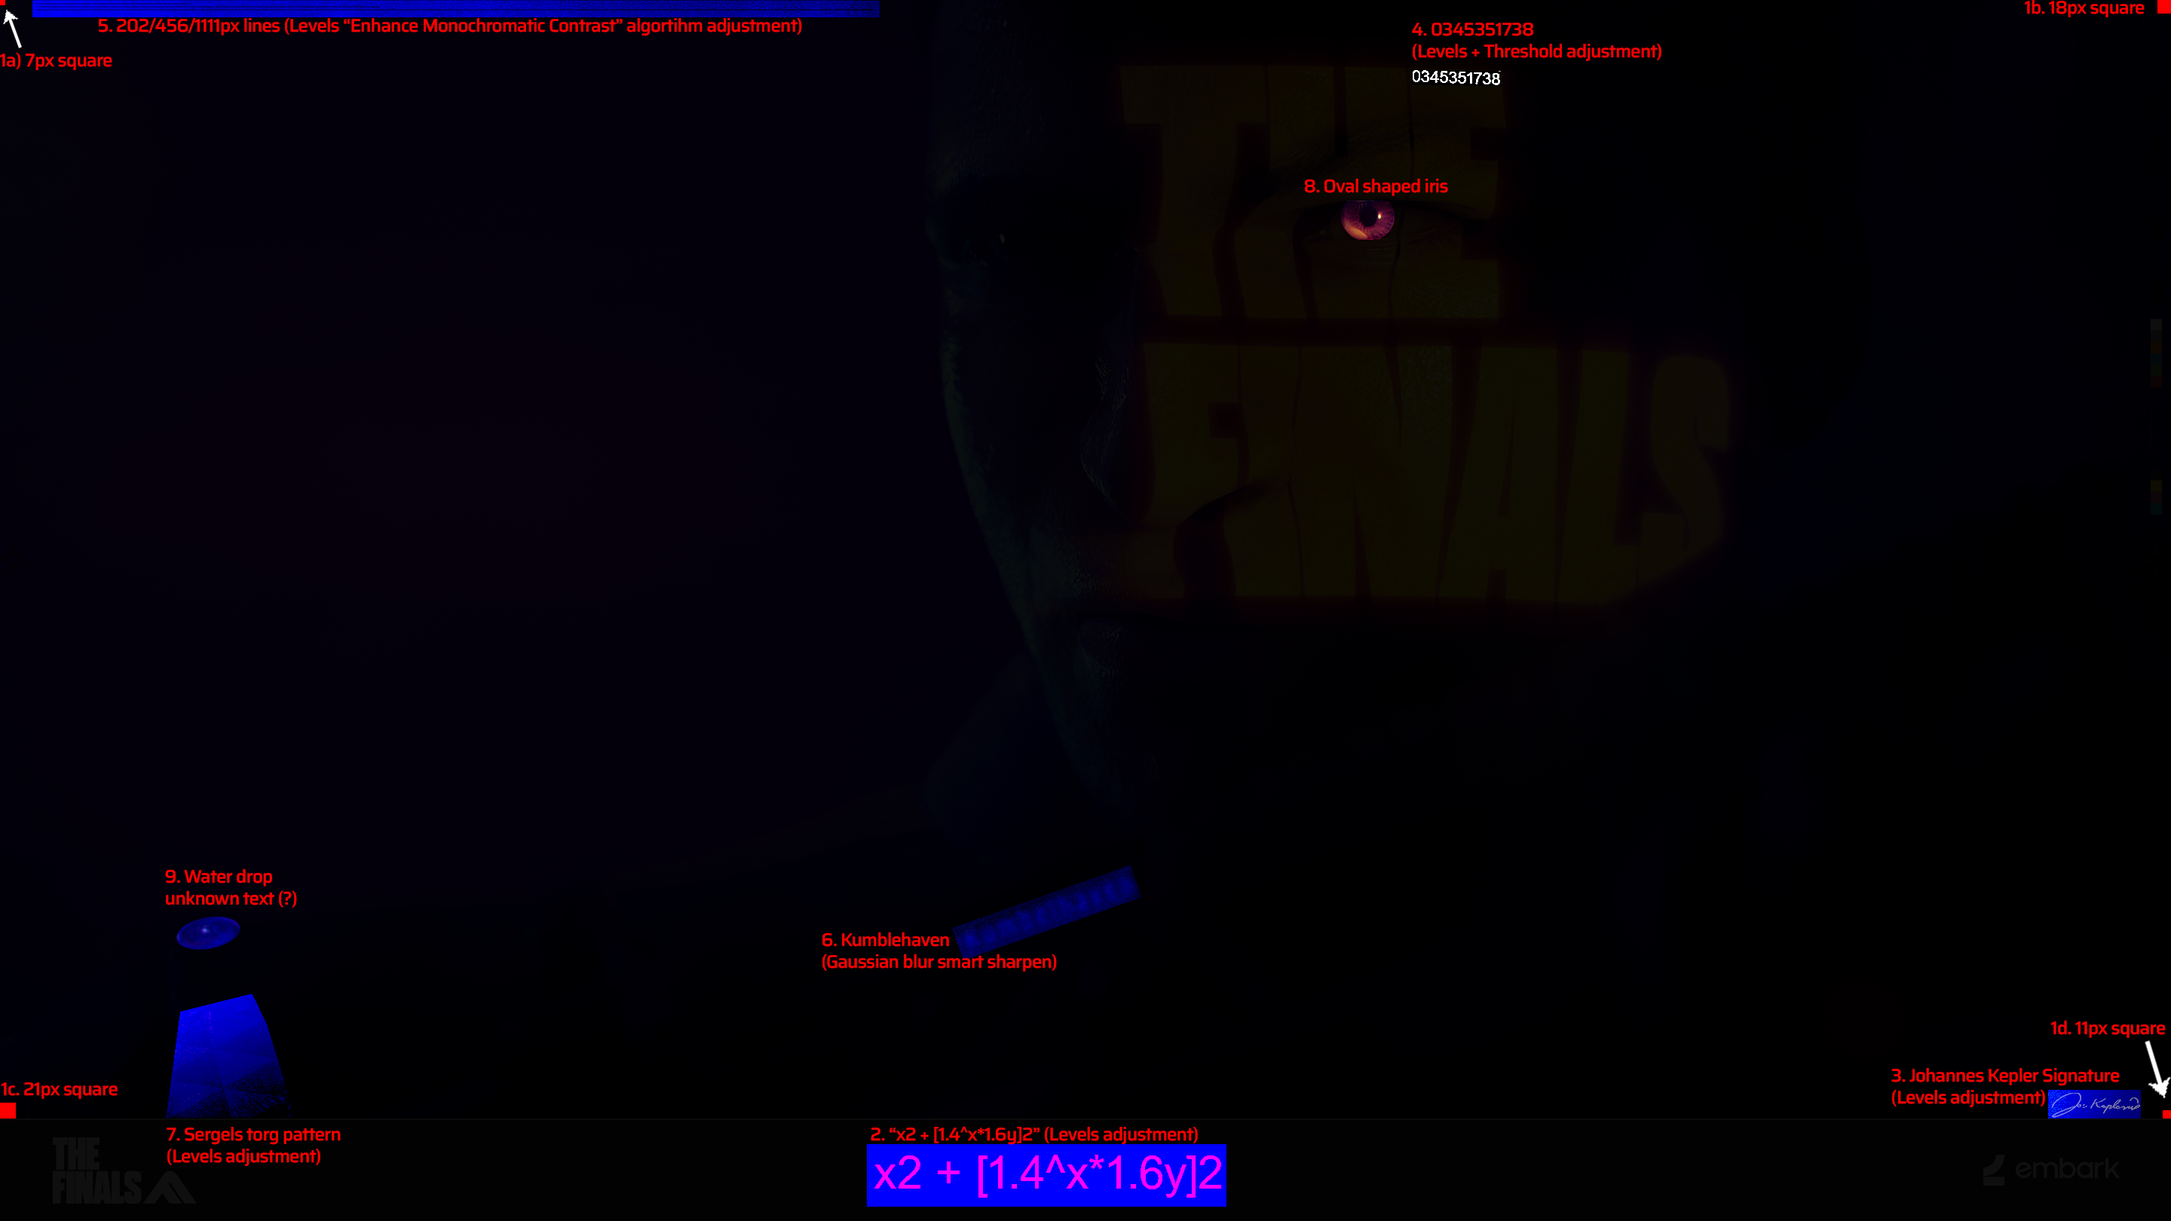
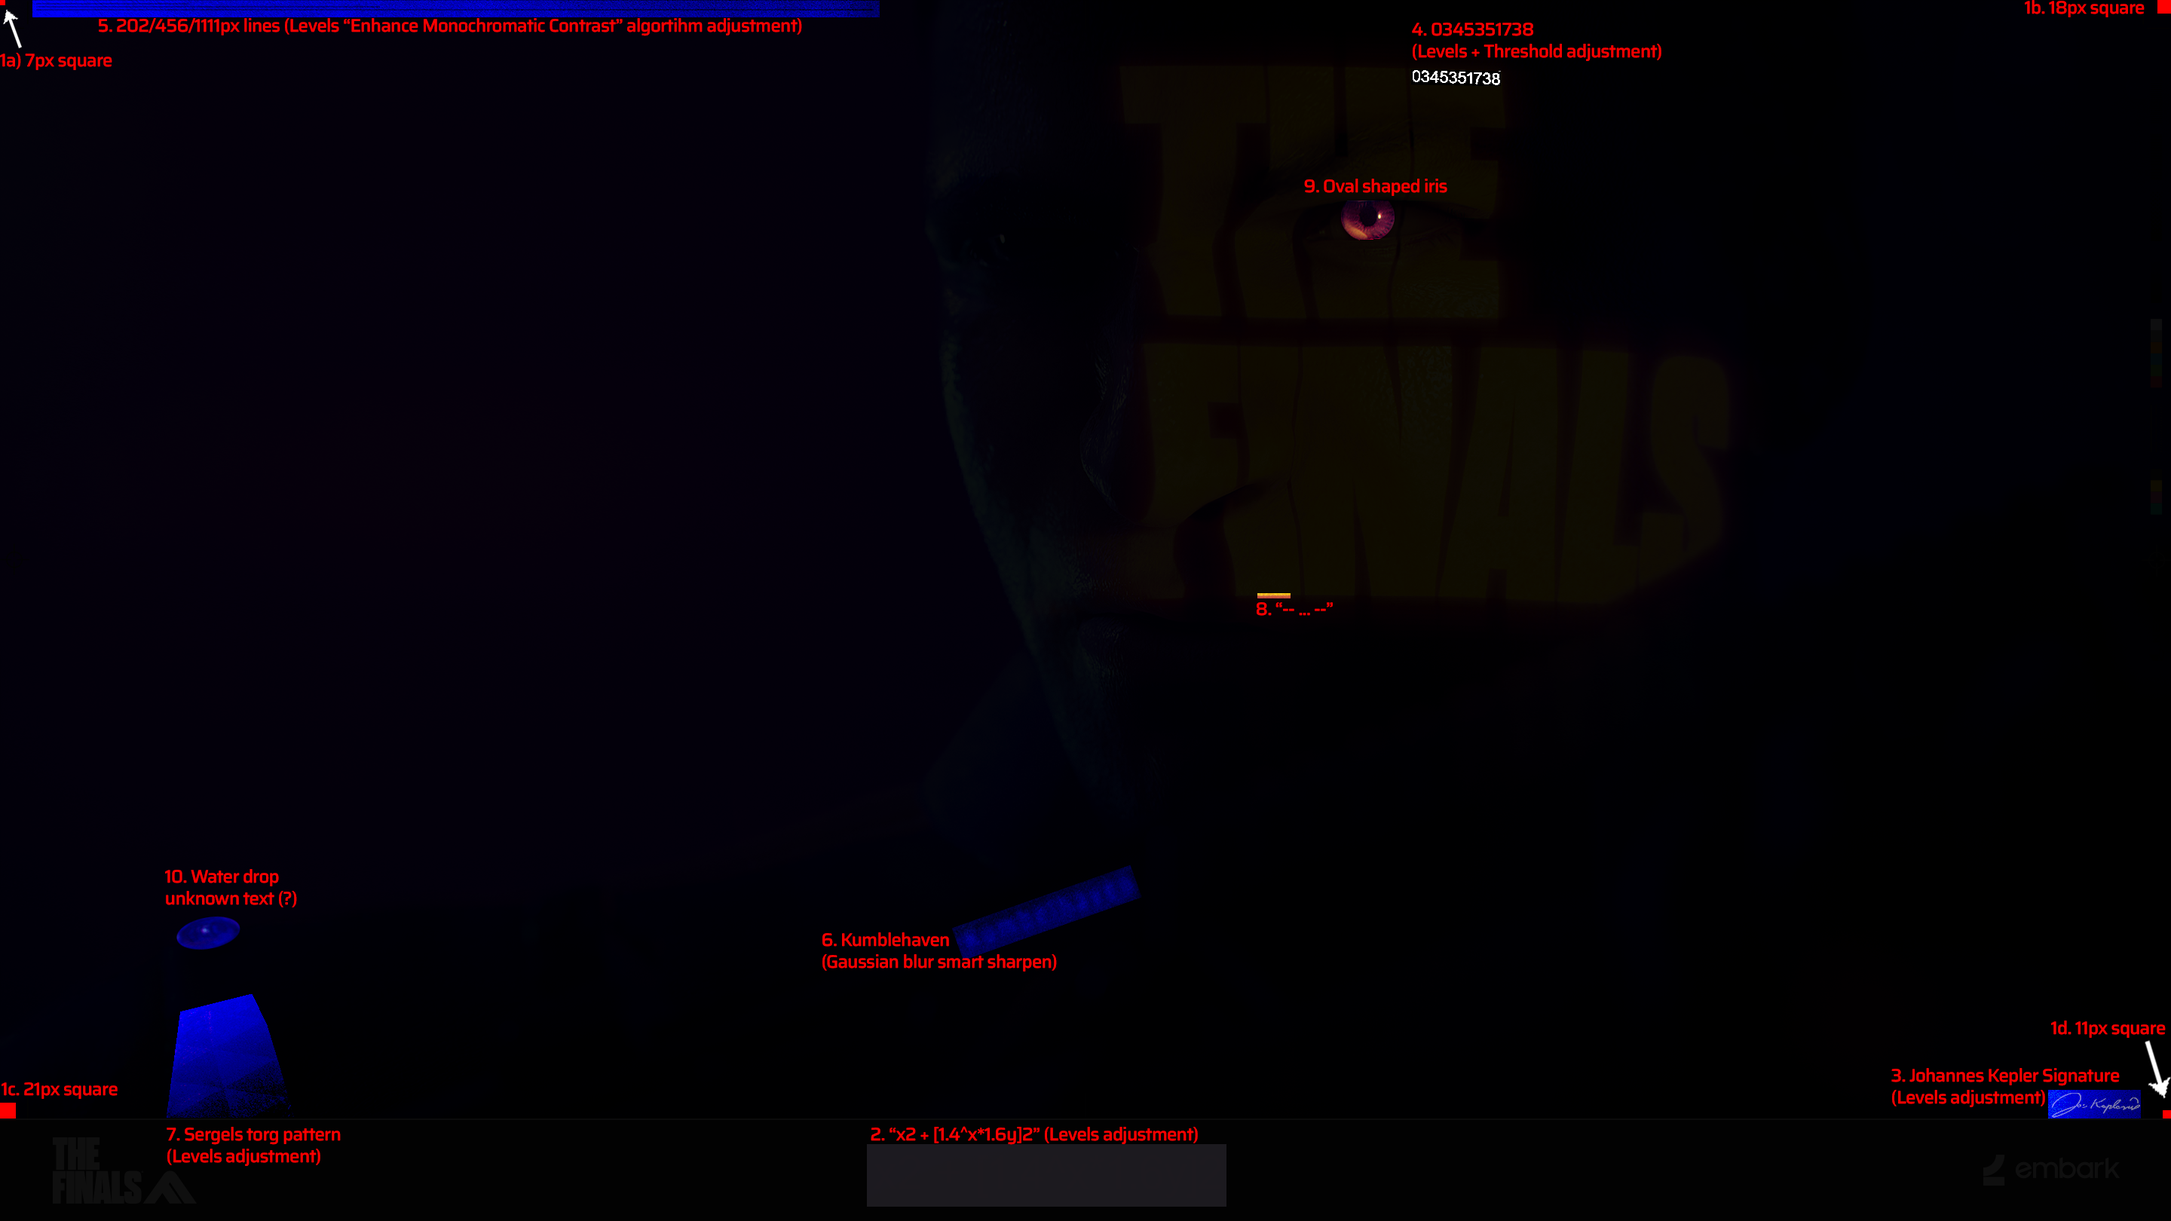
Missing content and formmating updates

Changed region(s): [[0.375, 0.9259, 0.5625, 0.9877], [0.0625, 0.7099, 0.125, 0.7407]]

diff --git a/content/T1B/THE_FINALS_OSPUZE.md b/content/T1B/THE_FINALS_OSPUZE.md
@@ -1,10 +1,12 @@
 Upon solving T1A the [password page](https://www.reachthefinals.com/t1-a) was replaced to instead have an image of THE_FINALS_Promo_OSPUZE_Weapons_1920x1080.png. 
 A higher resolution copy of the image was [posted](https://discord.com/channels/1008696016318513243/1031539174743998526/1034504554085097583) to the brand new \#official-art channel when it was 
-made two weeks later: ![[THE_FINALS_OSPUZE.png | 1300]]
+made two weeks later:
+![[THE_FINALS_OSPUZE.png | 2000]]
 # Pigpen cipher
 
 With some light photo editing a hidden pigpen cipher was found in the image ([credit](https://discord.com/channels/1008696016318513243/1011929497139953744/1029453835057496084)). 
-The cipher can be found using many techniques; here I've shown how it can be found by adjusting curves in the photo (it's faint, but it's there): ![[OSPUZE_pigpen.png | 1300]]
+The cipher can be found using many techniques; here I've shown how it can be found by adjusting curves in the photo (it's faint, but it's there):
+![[OSPUZE_pigpen.png | 2000]]
 The characters for the cipher [were quickly identified](https://discord.com/channels/1008696016318513243/1011929497139953744/1029457222369030185). Here I've isolated only the cipher:
 ![[OSPUZE_pigpen_only.png]]
 
@@ -16,7 +18,8 @@ For cipher characters that have double lines use the upper right key from the wi
 [This was quickly found](https://discord.com/channels/1008696016318513243/1011929497139953744/1029674085816479777) to be a reference to Frank Kramer, the credited name of director [[Gianfranco Parolini]].
 
 ---
-# The below clues are all apparent in the unedited image. Use this image as reference for locating them: ![[OSPUZE_apparent_clues.png | 1300]]
+# The below clues are all apparent in the unedited image. Use this image as reference for locating them:
+![[OSPUZE_apparent_clues.png | 2000]]
 # 1. mmisar X
 Around the same time [[Gianfranco Parolini]] was mentioned the text "mmisar X" was found on the [M60](https://www.thefinals.wiki/wiki/M60). The beginning of the text was occluded by the bullet feed, however the recently solved pigpen clue pointing Frank Kramer helped [immediately discover](https://discord.com/channels/1008696016318513243/1011929497139953744/1029673983156690984) that this textm was referring to a film he directed named [[Kommissar X]].
 
@@ -32,6 +35,7 @@ On the Ospuze sheriff badge strapped to the forestock of the M60 there is a lett
 
 # 4. 832 #num832
 The presence of 8 bullets strapped to the [M11](https://www.thefinals.wiki/wiki/M11) alongside the number "32" stamped into the gun pointed toward "Ab urbe condita 832" - a representation of the year AD 79 in a different calendar system. 
-Looking at the [AD 79 Wikipedia page](https://en.wikipedia.org/wiki/AD_79) the roman numeral password is present between AD 79 and Ab urb condita 832.  ![832](https://media.discordapp.net/attachments/1011929497139953744/1038421217050382336/image.png)
+Looking at the [AD 79 Wikipedia page](https://en.wikipedia.org/wiki/AD_79) the roman numeral password is present between AD 79 and Ab urb condita 832.  
+![832](https://media.discordapp.net/attachments/1011929497139953744/1038421217050382336/image.png)
 
 

diff --git a/content/T1B/Extra_Ospuze_Candy.md b/content/T1B/Extra_Ospuze_Candy.md
@@ -2,8 +2,10 @@
 > Hi there.! Hope you all will have a great weekend.! Here is some extra candy from one of our sponsors to enlighten your day... ._.
 
 An identical copy of the image was [posted](https://discord.com/channels/1008696016318513243/1031539174743998526/1035157401764110437) to the brand new \#official-art channel when it was 
-made four days later: ![[THE_FINALS_Extra_OSPUZE_Candy.jpg | 1300]]
-# The below clues are all apparent in the unedited image. Use this image as reference for locating them: ![[Extra_OSPUZE_Candy_apparent_clues.png | 1300]]
+made four days later:
+![[THE_FINALS_Extra_OSPUZE_Candy.jpg | 2000]]
+# The below clues are all apparent in the unedited image. Use this image as reference for locating them:
+![[Extra_OSPUZE_Candy_apparent_clues.png | 2000]]
 ## 1) 43 34 33 44 11-XXV
 Snippets of numeric text were found throughout the image ([1e](https://discord.com/channels/1008696016318513243/1011929497139953744/1033144605178335292), [1c](https://discord.com/channels/1008696016318513243/1011929497139953744/1033148848010448936), [1a](https://discord.com/channels/1008696016318513243/1011929497139953744/1033149124096299039), [1d](https://discord.com/channels/1008696016318513243/1011929497139953744/1033149188365635616), [1b](https://discord.com/channels/1008696016318513243/1011929497139953744/1033150066317344819)). The string is completed by arranging the snippets which contain purely [Arabic numerals](https://en.wikipedia.org/wiki/Arabic_numerals) from their placement in the image left to right and placing the snippet with [[Roman Numerals]] at the end. 
 
@@ -11,7 +13,7 @@ Using [tap code (aka knock code)](https://en.wikipedia.org/wiki/Tap_code) to dec
 
 ## 2) Ludwig signature snippet
 This is [[Ludwig van Beethoven|Beethoven]]'s first name from his signature:
-![LVB signature](https://upload.wikimedia.org/wikipedia/commons/thumb/6/62/Beethoven_Signature.svg/2560px-Beethoven_Signature.svg.png)
+![LVB signature | 1000](https://upload.wikimedia.org/wikipedia/commons/thumb/6/62/Beethoven_Signature.svg/2560px-Beethoven_Signature.svg.png)
 The identity of the signature was not discovered until a second snipet of the signature was found when [[Ospuze_Candiii]] was released.
 ## 3) Two tick marks
 #Unsolved

diff --git a/content/T1C/Promo_ISEULT_Candy_.md b/content/T1C/Promo_ISEULT_Candy_.md
@@ -1,5 +1,6 @@
-Upon completing T1B hunters were rewarded with the newest image. A much higher resolution version was then uploaded to the \#official-art channel [here](https://discord.com/channels/1008696016318513243/1031539174743998526/1036205427588857946):![[THE_FINALS_Promo_ISEULT_Candy_.png | 1300]]
- ![[THE_FINALS_Promo_ISEULT_Candy_clues.png | 1300]]
+Upon completing T1B hunters were rewarded with the newest image. A much higher resolution version was then uploaded to the \#official-art channel [here](https://discord.com/channels/1008696016318513243/1031539174743998526/1036205427588857946):
+![[THE_FINALS_Promo_ISEULT_Candy_.png | 2000]]
+![[THE_FINALS_Promo_ISEULT_Candy_clues.png | 2000]]
 
 # 1) AA - Anders Ångström
 There are two lone "A" characters in the image. The first is located on the rear sight tower of the [AKM](https://www.thefinals.wiki/wiki/AKM) (above the foregrip), while the second is on the buttstock of the [M60](https://www.thefinals.wiki/wiki/M60). 
@@ -18,7 +19,7 @@ The substitution of Roman numerals for the 3 in the Russian name allude to the r
 Pink Floyd's dark side of the moon
 
 The ***pink*** equilateral triangle was interpreted as a nod to ***Pink*** Floyd's album [Dark Side of the Moon](https://en.wikipedia.org/wiki/The_Dark_Side_of_the_Moon), as the album cover features an equilateral triangle. The name of the album serves as another nod to Luna 3, while the album cover is a nod to spectroscopy because of the light refraction and dispersion. 
-![album cover](https://upload.wikimedia.org/wikipedia/commons/c/c7/The_Dark_Side_of_the_Moon_Cover.svg)
+![album cove | 500](https://upload.wikimedia.org/wikipedia/commons/c/c7/The_Dark_Side_of_the_Moon_Cover.svg)
 
 # 4) 118
 There are 118 known elements.

diff --git a/content/T1A/Concept_006_TakeCover.md b/content/T1A/Concept_006_TakeCover.md
@@ -1,8 +1,9 @@
-![[THE_FINALS_Concept_006_TakeCover.jpg]]
+![[THE_FINALS_Concept_006_TakeCover.jpg | 2000]]
 
 Originally posted [here](https://discord.com/channels/1008696016318513243/1011929497139953744/1027944952698781728), then later in higher resolution in the official art channel [here](https://discord.com/channels/1008696016318513243/1031539174743998526/1034397078736085003)
 
-Here are the known clues which are immediately apparent in the image: ![[TakeCover_apparent_clues.png | 1300]]
+Here are the known clues which are immediately apparent in the image:
+![[TakeCover_apparent_clues.png | 2000]]
 # 1. αίθουσα
 There are three groupings of characters hidden near the bottom of the image (above the footer). These were found in three separate posts ([1c](https://discord.com/channels/1008696016318513243/1011929497139953744/1027948287904460851), [1a](https://discord.com/channels/1008696016318513243/1011929497139953744/1028027996969369670), [1b](https://discord.com/channels/1008696016318513243/1011929497139953744/1028029333253664919))
 
@@ -18,4 +19,5 @@ In [this message](https://discord.com/channels/1008696016318513243/1011929497139
 
 # 3. Poseidon Trident Symbol
 Poseidon is the father of [[Aethusa]]. 
-I believe this is close to if not the exact image used: ![t](https://emoji.discadia.com/emojis/4c32751d-2e08-412e-ae5a-805743d3898b.png)
+I believe this is close to if not the exact image used:
+![t | 500](https://emoji.discadia.com/emojis/4c32751d-2e08-412e-ae5a-805743d3898b.png)

diff --git a/content/T1D/Wallpaper_Brown_Eyed_Girl.md b/content/T1D/Wallpaper_Brown_Eyed_Girl.md
@@ -2,8 +2,8 @@
 > Wow, I just found this "404 errors may be momentary glitches that you can resolve by refreshing your web browser on a page."... that could be useful, I will keep that in mind... .\_.
 
 A minute later, after users had discovered the updated content of the T1C URL, a higher resolution version of the image was [posted](https://discord.com/channels/1008696016318513243/1031539174743998526/1043565435980873778) to the \#official-art channel:
-![[THE_FINALS_Wallpaper_Brown_Eyed_Girl_2880x1620.png| 1300]]
- ![[THE_FINALS_Wallpaper_Brown_Eyed_Girl_2880x1620_clues.png | 1300]]
+![[THE_FINALS_Wallpaper_Brown_Eyed_Girl_2880x1620.png| 2000]]
+![[THE_FINALS_Wallpaper_Brown_Eyed_Girl_2880x1620_clues.png | 2000]]
 
 # 0) Top Row Transparent Pixels
 In the top row there are transparent pixels at the y positions 0, 45, 70, 115, 127, 161.
@@ -31,4 +31,5 @@ A stack of 13 objects, interpreted to be Euclid's ***The Thirteen Books** of the
 
 # 7)110D631
 #Unsolved 
-It is contested where the 5th character is A 6 or an 8. Here I've presented a comparison in an attempt to provide an objective analysis ![[6vs8_analysis.gif | 800]]
+It is contested where the 5th character is A 6 or an 8. Here I've presented a comparison in an attempt to provide an objective analysis:
+![[6vs8_analysis.gif | 800]]

diff --git a/content/T1C/Promo_ISEULT_Candy_2.md b/content/T1C/Promo_ISEULT_Candy_2.md
@@ -1,14 +1,16 @@
 [Rob posted](https://discord.com/channels/1008696016318513243/1011929497139953744/1037777259681026069) the new image with the following caption:
 > Hi.! Some new candy from our sponsors, hope you like it.!
 
-An identical copy of the image was immediately [posted](https://discord.com/channels/1008696016318513243/1031539174743998526/1037777303742205974) to the \#official-art channel:![[THE_FINALS_Promo_ISEULT_Candy_2.png | 1300]]
+An identical copy of the image was immediately [posted](https://discord.com/channels/1008696016318513243/1031539174743998526/1037777303742205974) to the \#official-art channel:
+![[THE_FINALS_Promo_ISEULT_Candy_2.png | 2000]]
 
- ![[THE_FINALS_Promo_ISEULT_Candy_2_clues.png | 1300]]
+![[THE_FINALS_Promo_ISEULT_Candy_2_clues.png | 2000]]
 # 1) A
 Angstrom
 
 # 2) 2.75 3.26
 Violet light has photon energy of 2.75–3.26 [eV](https://simple.wikipedia.org/wiki/Electronvolt "Electronvolt")
+
 # 3) 29.9N 41.6W
 These are the coordinates of the [Angström crater](https://en.wikipedia.org/wiki/Angstr%C3%B6m_(crater)) on the moon.
 The characters "N" and "W" are a violet color.

diff --git a/content/T1D/404.gif.md b/content/T1D/404.gif.md
@@ -1,5 +1,7 @@
-Upon completing T1C hunters were rewarded with the newest image. This GIF temporarily appeared in place of the password entry until it was supplanted by [[Wallpaper_Brown_Eyed_Girl]]:![[404.gif | 1300]]
+Upon completing T1C hunters were rewarded with the newest image. This GIF temporarily appeared in place of the password entry until it was supplanted by [[Wallpaper_Brown_Eyed_Girl]]:
+![[404.gif | 2000]]
 There is a single known clue hidden in the GIF. Each of the three brief frames at the end has a hidden digit. The digits are 3, 2, and 5. Greek mathematician Euclid was born in the year 325 BC; As he is the father of geometry, this clue pointed us toward a geometry related solution.  
 
 Using a threshold adjustment layer with the threshold set to 255 is sufficient to clearly reveal the hidden digits. 
-The below image shows a composite of all three relevant frames with a mask to highlight the hidden numbers: ![[404_clues.png | 1300]]
+The below image shows a composite of all three relevant frames with a threshold applied and mask to highlight the hidden numbers: 
+![[404_clues.png | 2000]]

diff --git a/content/T1B/OSPUZE_Candy_01.md b/content/T1B/OSPUZE_Candy_01.md
@@ -2,10 +2,12 @@
 > A little gift from OSPUZE... Have a nice weekend... .\_.
 
 An identical copy of the image was [posted](https://discord.com/channels/1008696016318513243/1031539174743998526/1035157380469620736) to the brand new \#official-art channel when it was 
-made two weeks later: ![[THE_FINALS_Promo_OSPUZE_Candy_01.png | 1300]]
+made two weeks later:
+![[THE_FINALS_Promo_OSPUZE_Candy_01.png | 2000]]
 
 # 190B 01 1B151A01
-A single plainly visible clue [has been found](https://discord.com/channels/1008696016318513243/1011929497139953744/1030569466481885274) in the image: ![[Candy_apparent_clues.png | 1300]]
+A single plainly visible clue [has been found](https://discord.com/channels/1008696016318513243/1011929497139953744/1030569466481885274) in the image:
+![[Candy_apparent_clues.png | 2000]]
 The text is more legible when adjustments are made to the image ([credit](https://discord.com/channels/1008696016318513243/1011929497139953744/1030570013935009872)):
 ![img](https://cdn.discordapp.com/attachments/1011929497139953744/1030570013536563210/Screen_Shot_2022-10-14_at_3.57.08_PM.png)
 

diff --git a/content/T1A/Concept_005_Fire.md b/content/T1A/Concept_005_Fire.md
@@ -1,9 +1,9 @@
-![[THE_FINALS_Concept_005_Fire.jpg]]
+![[THE_FINALS_Concept_005_Fire.jpg | 2000]]
 
 [[Oriri ex cinere]] was the caption alongside [[THE_FINALS_Concept_Fire_1920x1080.png]] and [[THE_FINALS_Concept_Firee_1920x1080.png]] posted [here](https://discord.com/channels/1008696016318513243/1011929497139953744/1027559112965365769) and [here](https://discord.com/channels/1008696016318513243/1011929497139953744/1027559997929963542) respectively, and later in higher resolution in the official art channel [here](https://discord.com/channels/1008696016318513243/1031539174743998526/1034397067524706304)
 
 Using the two original images as layers in photoshop and applying a difference blending mode, followed by a levels adjustment layer with the whites squashed all the way to the left (resulting in black 0, grey 1, white 2) leads to the following image:
-![[Fire_Difference.png]]
+![[Fire_Difference.png | 2000]]
 
 The hidden image was determined to be of the [[Pisa Griffin]] in [this post](https://discord.com/channels/1008696016318513243/1011929497139953744/1027582459191250994). 
 

diff --git a/content/T1C/Promo_ISEULT_Candy_4.md b/content/T1C/Promo_ISEULT_Candy_4.md
@@ -2,9 +2,10 @@
 > Hi there.! 
 > This little thing is bound to make you happy.!
 
-An identical copy of the image was immediately [posted](https://discord.com/channels/1008696016318513243/1031539174743998526/1040306739481944104) to the \#official-art channel: ![[THE_FINALS_Promo_ISEULT_Candy_4.png | 1300]]
+An identical copy of the image was immediately [posted](https://discord.com/channels/1008696016318513243/1031539174743998526/1040306739481944104) to the \#official-art channel:
+![[THE_FINALS_Promo_ISEULT_Candy_4.png | 2000]]
 
- ![[THE_FINALS_Promo_ISEULT_Candy_4_clues.png | 1300]]
+![[THE_FINALS_Promo_ISEULT_Candy_4_clues.png | 2000]]
 
 # 1) 1s 2s
 First 2 shells for an electron configuration
@@ -23,6 +24,7 @@ Likely to guide our thinking toward electrons & thus electron configurations
 
 # 6) 10-31
 #Unsolved 
-There was speculation that this was pointing us toward a date we may have been getting close to solving the 
+There was speculation that this was pointing us toward a date we may have been getting close to solving the tier.
+
 # 7) 0
 #unsolved

diff --git a/content/T1B/Ospuze_Candiii.md b/content/T1B/Ospuze_Candiii.md
@@ -2,9 +2,10 @@
 > Hi there.!
 > Looks like OSPUZE had some extra candy in the bag.!!!
 
-An identical copy of the image was [posted](https://discord.com/channels/1008696016318513243/1031539174743998526/1034504554085097583) to the brand new \#official-art the next day: ![[THE_FINALS_Promo_OSPUZE_Candiii_.png | 1300]]
+An identical copy of the image was [posted](https://discord.com/channels/1008696016318513243/1031539174743998526/1034504554085097583) to the brand new \#official-art the next day:
+![[THE_FINALS_Promo_OSPUZE_Candiii_.png | 2000]]
 
- ![[OSPUZE_Candiii_clues.png | 1300]]
+![[OSPUZE_Candiii_clues.png | 2000]]
 # 0) Cand*iii*
 The title of the image is a clue itself. This is the third "candy" image provided, and iii represents 3 in Roman numerals. It is possible that this was also alluding to the password cacoiii in T1E.
 

diff --git a/content/T1C/Promo_ISEULT_Candy_3.md b/content/T1C/Promo_ISEULT_Candy_3.md
@@ -2,8 +2,9 @@
 > Hi there.! 
 > GLHF...(and we hope you like this little gift from our sponsors.!)
 
-An identical copy of the image was immediately [posted](https://discord.com/channels/1008696016318513243/1031539174743998526/1039297544716550244) to the \#official-art channel:![[THE_FINALS_Promo_ISEULT_Candy_3.png | 1300]]
- ![[THE_FINALS_Promo_ISEULT_Candy_3_clues.png | 1300]]
+An identical copy of the image was immediately [posted](https://discord.com/channels/1008696016318513243/1031539174743998526/1039297544716550244) to the \#official-art channel:
+![[THE_FINALS_Promo_ISEULT_Candy_3.png | 2000]]
+![[THE_FINALS_Promo_ISEULT_Candy_3_clues.png | 2000]]
 # 1) Iris Sibirica
 
 # 2) Sp PL:39 (1753)
